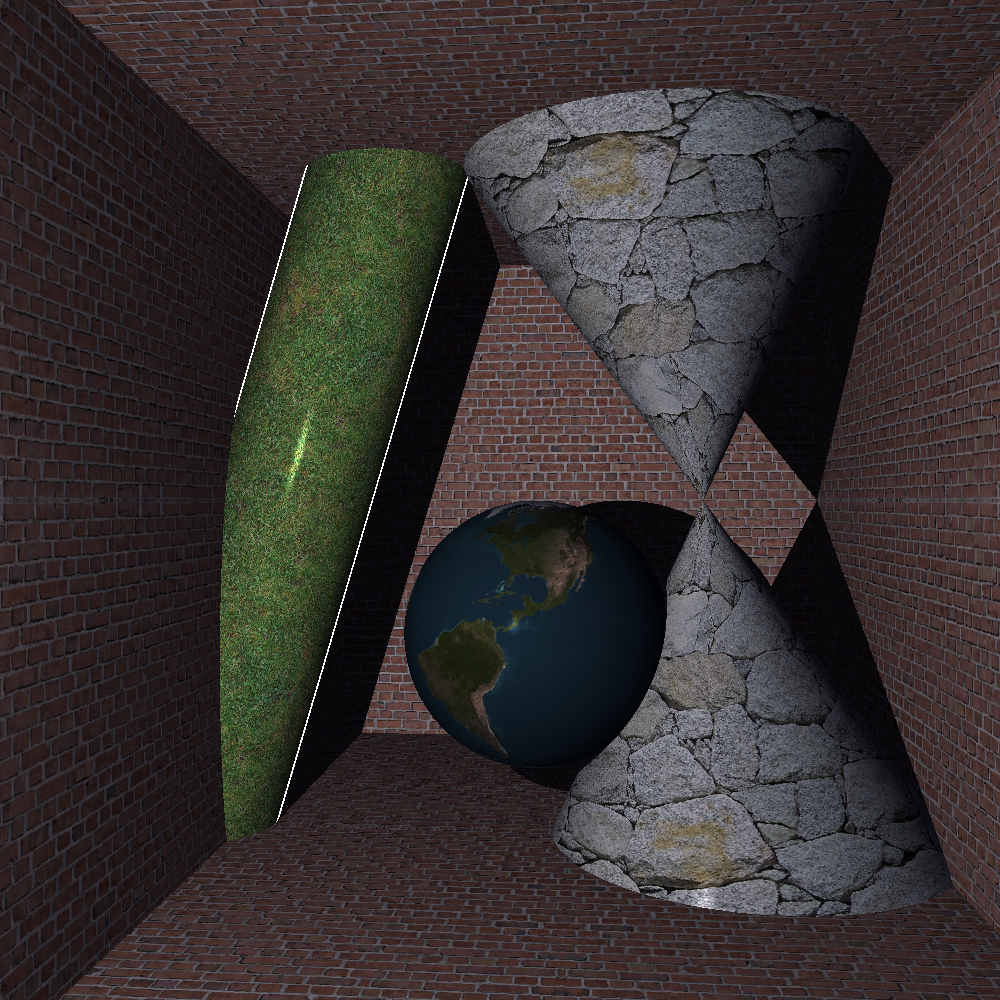
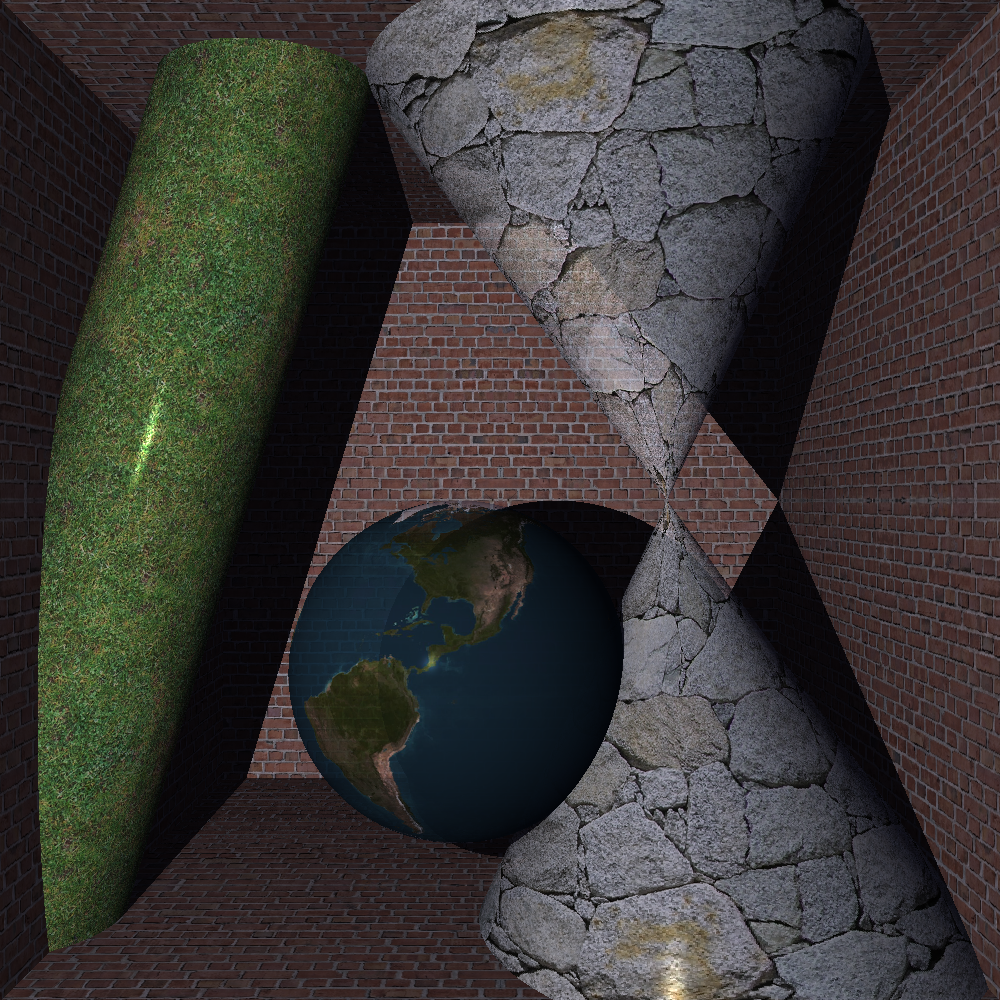
added transperency

diff --git a/source/find_pixel_color.c b/source/find_pixel_color.c
@@ -48,6 +48,16 @@ void		add_coef(t_channel *coef1, t_channel coef2, float coef)
 
 // NEW FUNCTIONS ------------------------------------------------------------------------
 
+void		trancperent_add_coef(t_channel *coef1, t_channel coef2, float coef)
+{
+    coef1->blue *= 1 - coef;
+    coef1->blue += coef2.blue * coef;
+    coef1->green *= 1 - coef;
+    coef1->green += coef2.green * coef;
+    coef1->red *= 1 - coef;
+    coef1->red += coef2.red * coef;
+}
+
 t_intersect	find_closest_reflected_inter(t_cl_data cl_data, t_objects *objects, t_ray ray, t_objects *this)
 {
 	t_intersect	tmp_inter;
@@ -93,18 +103,33 @@ t_channel	find_lamp_coef(t_cl_data cl_data, t_objects *objects, t_light *current
 {
 	t_ray			reflected_ray;
 	t_intersect		reflected_inter;
+    t_ray           trancperent_ray;
+	t_intersect		trancperent_inter;
 	float 			a;
 	t_ray			light_ray;
 	t_channel		lamp_coef;
 	float			*cos_angle;
 
 	ft_bzero(&lamp_coef, sizeof(t_channel));
-//	disrupt_normal(&closest_inter);
 	if (current_lamp->type == AMBIENT)
 		add_coef(&lamp_coef, current_lamp->color, current_lamp->intensity);
 	else
 	{
 		light_ray = find_light_ray(current_lamp->origin, closest_inter.point);
+
+		// Trancperency calculation ------------------------------------------------------------------------------
+		if (closest_inter.fig->transperent_coef > 0)
+		{
+            trancperent_ray.origin = closest_inter.point;
+            trancperent_ray.direction = r.direction;
+            trancperent_inter = find_closest_reflected_inter(cl_data, objects, trancperent_ray, closest_inter.fig);
+            if (trancperent_inter.distance != INFINITY)
+                trancperent_add_coef(&lamp_coef, int_to_channels(find_color(cl_data, lights, objects, trancperent_inter,
+                trancperent_ray)), closest_inter.fig->transperent_coef);
+		}
+		// -------------------------------------------------------------------------------------------------------
+
+		// Reflection calculation --------------------------------------------------------------------------------
 		if (closest_inter.fig->mirror_coef > 0 && cl_data.reflect_rate < cl_data.max_reflections)
 		{
 			cl_data.reflect_rate++;
@@ -116,8 +141,10 @@ t_channel	find_lamp_coef(t_cl_data cl_data, t_objects *objects, t_light *current
 				add_coef(&lamp_coef, int_to_channels(find_color(cl_data, lights, objects, reflected_inter, reflected_ray)),
 						 closest_inter.fig->mirror_coef);
 		}
+		// -------------------------------------------------------------------------------------------------------
+
 		if (!is_shadows_here(light_ray, closest_inter.normal, r) ||
-			!is_figure_first_inter_by_light(cl_data, objects, light_ray, closest_inter))
+			is_figure_first_inter_by_light(cl_data, objects, light_ray, closest_inter))
 			return (lamp_coef);
 		cos_angle = find_cos_angle(light_ray, closest_inter, closest_inter.normal, r);
 		add_coef(&lamp_coef, current_lamp->color, cos_angle[0] *

diff --git a/source/parcing_function/file_parcing.c b/source/parcing_function/file_parcing.c
@@ -42,16 +42,20 @@ void			init_arrays(t_rt *rt_data) //TODO розбити по функціям
 		rt_data->objects_arr[len].angle_coef = step_obj->angle_coef;
 		rt_data->objects_arr[len].basis = step_obj->basis;
 		rt_data->objects_arr[len].mirror_coef = step_obj->mirror_coef;
-		rt_data->objects_arr[len].transperent_coef = step_obj->transperent_coef;
 		rt_data->objects_arr[len].axis_dimensions = step_obj->axis_dimensions;
 		rt_data->objects_arr[len].bling_phong = step_obj->bling_phong;
 		rt_data->objects_arr[len].mirror_coef = step_obj->mirror_coef;
+
 		// KOSTIL ----------------------------------------------------------------- // TODO udolit
 
+		// Transperency ------------------------
+		rt_data->objects_arr[len].transperent_coef = (step_obj->type == CYLINDER ? 0.6f : 0);
+
+		// Textures ---------------------
 		if (step_obj->type == SPHERE)
 			rt_data->objects_arr[len].texture_index = 0;
 		else if (step_obj->type == CYLINDER)
-			rt_data->objects_arr[len].texture_index = 3;
+			rt_data->objects_arr[len].texture_index = -1;
 		else if (step_obj->type == CONE)
 			rt_data->objects_arr[len].texture_index = 2;
 		else

diff --git a/source/run_rtv1.c b/source/run_rtv1.c
@@ -118,13 +118,13 @@ void		get_texture(t_intersect *closest_inter, t_cl_data cl_data)
 			nor = matrix_mult_vect(closest_inter->fig->basis, nor);
 			if (nor.x != 0)
 			{
-				i = (int) ((nor.x > 0 ? nor.x : -nor.x) * 100) % texture->w;
-				j = (int) ((nor.y > 0 ? nor.y : -nor.y) * 100) % texture->h;
+				i = (int) ((nor.x > 0 ? nor.x : texture->w + nor.x) * 100) % texture->w;
+				j = (int) ((nor.y > 0 ? nor.y : texture->h + nor.y) * 100) % texture->h;
 			}
 			else
 			{
-				i = (int) ((nor.z > 0 ? nor.z : -nor.z) * 100) % texture->w;
-				j = (int) ((nor.y > 0 ? nor.y : -nor.y) * 100) % texture->h;
+				i = (int) ((nor.z > 0 ? nor.z : texture->w + nor.z) * 100) % texture->w;
+				j = (int) ((nor.y > 0 ? nor.y : texture->h + nor.y) * 100) % texture->h;
 			}
 		}
 		closest_inter->texture_color = int_to_channels(((unsigned int *) texture->pixels)[j * texture->w + i]);

diff --git a/source/draw_scene.c b/source/draw_scene.c
@@ -117,6 +117,11 @@ int		draw_scene(t_rt *rt_data)
 
 		pixel.y++;
 	}
+    if (rt_data->take_screenshot == 0)
+    {
+        draw_clicked_info(rt_data);
+        draw_gui(rt_data);
+    }
 	return (0);
 }
 void	draw_pixel(t_rt *rt_data, t_cl_data cl_data, t_objects *objects, t_light *lights, t_dot pixel)
@@ -127,6 +132,7 @@ void	draw_pixel(t_rt *rt_data, t_cl_data cl_data, t_objects *objects, t_light *l
 
 	primary_ray = compute_ray(cl_data.camera, pixel);
 	closest_inter = find_closest_inter(cl_data, objects, primary_ray);
+    rt_data->cl_data.max_reflections = 5;
 	rt_data->cl_data.reflect_rate = 0;
 	if (closest_inter.distance == INFINITY)
 		color = 0;

diff --git a/source/some_find_color_func.c b/source/some_find_color_func.c
@@ -43,11 +43,11 @@ int			is_figure_first_inter_by_light(t_cl_data cl_data, t_objects *objects, t_ra
 				clost_to_light.distance =
 						distance(light_ray.origin, clost_to_light.point);
 			if (clost_to_light.distance < distance_to_light)
-				return (FALSE);
+				return (TRUE);
 		}
 		current++;
 	}
-	return (TRUE);
+	return (FALSE);
 }
 
 float		*find_cos_angle(t_ray light_ray, t_intersect closest_inter,
